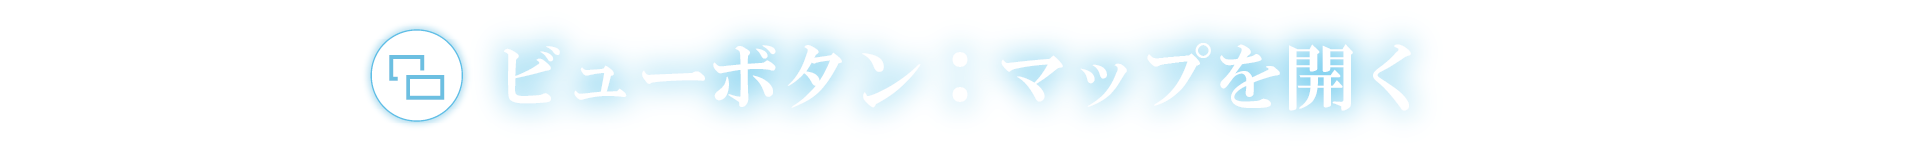
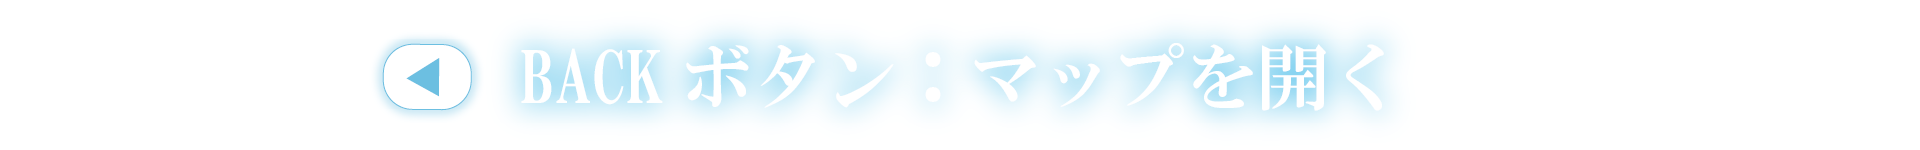
マップコントローラー対応。背景のやつ星つけてみた

Changed region(s): [[0.1875, 0.16, 0.4688, 0.8267], [0.5, 0.2667, 0.75, 0.7733]]

diff --git a/Sample/Assets/Scenes/AT12D/Yoshihara Asuka/Input2/Game_pad.cs b/Sample/Assets/Scenes/AT12D/Yoshihara Asuka/Input2/Game_pad.cs
@@ -275,7 +275,7 @@ public partial class @Game_pad : IInputActionCollection2, IDisposable
                     ""initialStateCheck"": true
                 },
                 {
-                    ""name"": ""Select"",
+                    ""name"": ""Map"",
                     ""type"": ""Value"",
                     ""id"": ""b15abb3a-e67f-455d-a926-339e8f9490b5"",
                     ""expectedControlType"": """",
@@ -358,7 +358,7 @@ public partial class @Game_pad : IInputActionCollection2, IDisposable
                     ""interactions"": """",
                     ""processors"": """",
                     ""groups"": """",
-                    ""action"": ""Select"",
+                    ""action"": ""Map"",
                     ""isComposite"": false,
                     ""isPartOfComposite"": false
                 },
@@ -369,7 +369,7 @@ public partial class @Game_pad : IInputActionCollection2, IDisposable
                     ""interactions"": """",
                     ""processors"": """",
                     ""groups"": """",
-                    ""action"": ""Select"",
+                    ""action"": ""Map"",
                     ""isComposite"": false,
                     ""isPartOfComposite"": false
                 }
@@ -389,7 +389,7 @@ public partial class @Game_pad : IInputActionCollection2, IDisposable
         m_UI_RightStickSelect = m_UI.FindAction("RightStickSelect", throwIfNotFound: true);
         m_UI_Start = m_UI.FindAction("Start", throwIfNotFound: true);
         m_UI_Decision = m_UI.FindAction("Decision", throwIfNotFound: true);
-        m_UI_Select = m_UI.FindAction("Select", throwIfNotFound: true);
+        m_UI_Map = m_UI.FindAction("Map", throwIfNotFound: true);
     }
 
     public void Dispose()
@@ -502,7 +502,7 @@ public partial class @Game_pad : IInputActionCollection2, IDisposable
     private readonly InputAction m_UI_RightStickSelect;
     private readonly InputAction m_UI_Start;
     private readonly InputAction m_UI_Decision;
-    private readonly InputAction m_UI_Select;
+    private readonly InputAction m_UI_Map;
     public struct UIActions
     {
         private @Game_pad m_Wrapper;
@@ -511,7 +511,7 @@ public partial class @Game_pad : IInputActionCollection2, IDisposable
         public InputAction @RightStickSelect => m_Wrapper.m_UI_RightStickSelect;
         public InputAction @Start => m_Wrapper.m_UI_Start;
         public InputAction @Decision => m_Wrapper.m_UI_Decision;
-        public InputAction @Select => m_Wrapper.m_UI_Select;
+        public InputAction @Map => m_Wrapper.m_UI_Map;
         public InputActionMap Get() { return m_Wrapper.m_UI; }
         public void Enable() { Get().Enable(); }
         public void Disable() { Get().Disable(); }
@@ -533,9 +533,9 @@ public partial class @Game_pad : IInputActionCollection2, IDisposable
                 @Decision.started -= m_Wrapper.m_UIActionsCallbackInterface.OnDecision;
                 @Decision.performed -= m_Wrapper.m_UIActionsCallbackInterface.OnDecision;
                 @Decision.canceled -= m_Wrapper.m_UIActionsCallbackInterface.OnDecision;
-                @Select.started -= m_Wrapper.m_UIActionsCallbackInterface.OnSelect;
-                @Select.performed -= m_Wrapper.m_UIActionsCallbackInterface.OnSelect;
-                @Select.canceled -= m_Wrapper.m_UIActionsCallbackInterface.OnSelect;
+                @Map.started -= m_Wrapper.m_UIActionsCallbackInterface.OnMap;
+                @Map.performed -= m_Wrapper.m_UIActionsCallbackInterface.OnMap;
+                @Map.canceled -= m_Wrapper.m_UIActionsCallbackInterface.OnMap;
             }
             m_Wrapper.m_UIActionsCallbackInterface = instance;
             if (instance != null)
@@ -552,9 +552,9 @@ public partial class @Game_pad : IInputActionCollection2, IDisposable
                 @Decision.started += instance.OnDecision;
                 @Decision.performed += instance.OnDecision;
                 @Decision.canceled += instance.OnDecision;
-                @Select.started += instance.OnSelect;
-                @Select.performed += instance.OnSelect;
-                @Select.canceled += instance.OnSelect;
+                @Map.started += instance.OnMap;
+                @Map.performed += instance.OnMap;
+                @Map.canceled += instance.OnMap;
             }
         }
     }
@@ -571,6 +571,6 @@ public partial class @Game_pad : IInputActionCollection2, IDisposable
         void OnRightStickSelect(InputAction.CallbackContext context);
         void OnStart(InputAction.CallbackContext context);
         void OnDecision(InputAction.CallbackContext context);
-        void OnSelect(InputAction.CallbackContext context);
+        void OnMap(InputAction.CallbackContext context);
     }
 }
